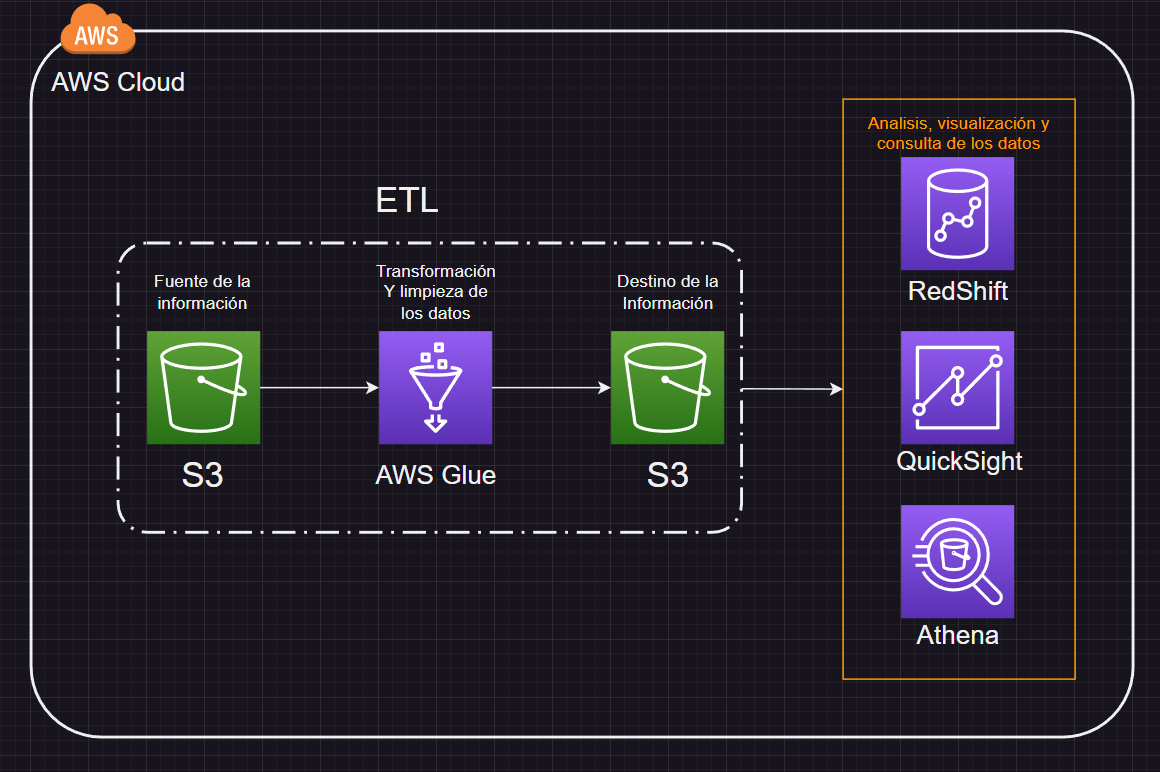
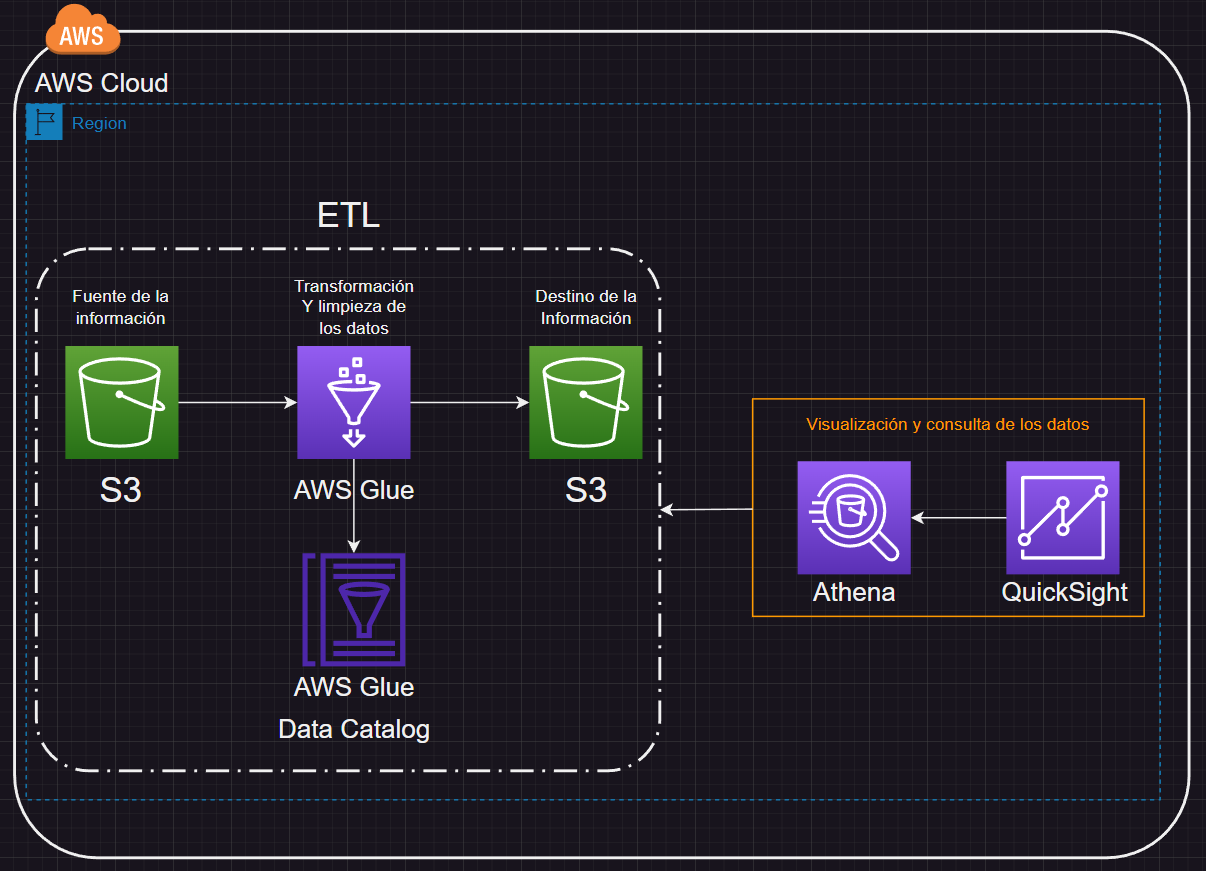
Ajustes imagenes y Readme

diff --git a/README.md b/README.md
@@ -1,6 +1,6 @@
 # Paso 1: Alcance del proyecto y captura de datos.
 
-* Identificar y recopilar los datos que usaras para tu proyecto.<br>
+1. Identificar y recopilar los datos que usaras para tu proyecto.<br>
 El [DataSet](https://www.kaggle.com/datasets/shivamb/bank-customer-segmentation) seleccionado es **Bank Customer Segmentation** contiene datos demográficos y de transacciones de clientes de un banco indio, este dataset tiene información como: 
 - Fecha de nacimiento
 - Género
@@ -10,7 +10,7 @@ El [DataSet](https://www.kaggle.com/datasets/shivamb/bank-customer-segmentation)
 - Tiempo de transacción 
 - Monto en INR
 
-* Explicar para qué casos de uso final deseas preparar los datos, por ejemplo: tabla de análisis, aplicación de fondo, base de datos de fuentes de verdad, etc.<br>
+2. Explicar para qué casos de uso final deseas preparar los datos, por ejemplo: tabla de análisis, aplicación de fondo, base de datos de fuentes de verdad, etc.<br>
 El caso de uso para el que prepararé los datos es para realizar **Análisis de comportamiento de gastos según la edad y género de los clientes**, el objetivo de este caso de uso será encontrar información valiosa sobre los patrones de gastos de diferentes grupos demográficos, esto nos puede ayudar a tomar decisiones estratégicas que podemos relacionar con la oferta de productos y servicios para los clientes.
 
 # Paso 2: Explorar y evaluar los datos, el EDA.
@@ -40,13 +40,13 @@ Todos los pasos anteriores los fui explicando en el notebook mencionado.
 	
 	![Arquitectura](./images/arquitectura.png)
 	<br>
-3. Indique claramente los motivos de la elección de las herramientas y tecnologías para el proyecto.
-	Elegí herramientas como python, google colab porque python es el lenguaje recomendado por el documento de la prueba técnica y porque es un lenguaje que manejo bastante bien, el uso de google colab es debido a que me parece una herramienta sencilla de usar y que estoy acostumbrado a ella.
+3. Indique claramente los motivos de la elección de las herramientas y tecnologías para el proyecto.<br>
+	Elegí herramientas como python, google colab porque python es el lenguaje recomendado por el documento de la prueba técnica y porque es un lenguaje que manejo bastante bien, el uso de google colab es debido a que me parece una herramienta sencilla de usar, que estoy acostumbrado a ella y me da la facilidad de tener un entorno aislado sin mucho esfuerzo.
 	<br>
-	Por otro lado respecto a las tecnologías y herramientas utilizadas para la creación y ejecución del ETL, Amazon S3 ofrece ventajas como una gran escalabilidad, economía y me permite modularidad en la arquitectura, por otro lado el uso de AWS Glue, permite que realice la transformación de los datos de forma sencilla con algunas transformaciones sencillas, pero a la vez me permite usar transformaciones a partir de SQL cosa que AWS Glue Databreaw no me permite, adicionalmente son herramientas que me permiten realizar una buena integración con otras herramientas de AWS como Athena, Redshift o QuickSight, para poder consultar, analizar y visualizar  los datos y también son herramientas con mucha documentación y videos que podrían ayudar en caso de encontrarme con algún imprevisto.
+	Por otro lado respecto a las tecnologías y herramientas utilizadas para la creación y ejecución del ETL, Amazon S3 ofrece ventajas como una gran escalabilidad, economía y me permite modularidad en la arquitectura, por otro lado el uso de AWS Glue, permite que realice la transformación de los datos de forma sencilla con algunas transformaciones sencillas, pero a la vez me permite usar transformaciones a partir de SQL que son un poco más complejas, cosa que AWS Glue Databrew no me permite, adicionalmente son herramientas que me permiten realizar una buena integración con otras herramientas de AWS como Athena para explorar un poco más los datos y QuickSight para visualizar los mismos y también son herramientas que cuentan con mucha documentación y videos que podrían ayudar en caso de encontrarme con algún imprevisto.
 
-4. Proponga con qué frecuencia deben actualizarse los datos y por qué.
-	La frecuencia de actualización de los datos depende de la disponibilidad y la actualización de los mismos, en este caso como estamos hablando de transacciones realizadas por los clientes de un banco lo más recomendable sería tener una actualización lo más cercano al tiempo real, es decir, en intervalos de pocos minutos o hasta segundos, pero en este caso como el objetivo del proyecto es el **Análisis de comportamiento de gastos según la edad y género de los clientes** no es primordial contar con la actualización de manera frecuente, en un principio se podrían realizar análisis con una muestra de los datos y posterior a ello cuando ya se tenga un análisis completamente estructurado, se pueden realizar actualizaciones periódicas.
+4. Proponga con qué frecuencia deben actualizarse los datos y por qué.<br>
+	La frecuencia de actualización de los datos depende de la disponibilidad y la actualización de los mismos, en este caso como estamos hablando de transacciones realizadas por los clientes de un banco lo más recomendable sería tener una actualización lo más cercano al tiempo real, es decir, en intervalos de pocos minutos o hasta segundos, para esto nos podríamos ayudar de los Schedules de los jobs en AWS Glue para ejecutar la transformación de los datos en los intervalos que sea necesario, pero en este caso como el objetivo del proyecto es el **Análisis de comportamiento de gastos según la edad y género de los clientes** no es primordial contar con la actualización de manera frecuente, en un principio se podrían realizar análisis con una muestra de los datos y posterior a ello cuando ya se tenga un análisis completamente estructurado, se pueden realizar actualizaciones periódicas.
 
 # Paso 4: Ejecutar la ETL
 
@@ -115,3 +115,4 @@ Finalmente llevé la data procesada a un bucket de S3, en la imagen se puede ver
 	<br>
 
 	- Si se requiere hacer analítica en tiempo real, ¿cuales componentes cambiaria a su arquitectura propuesta?<br>
+	Para este caso tendríamos que agregar schedules y usar la herramienta de workflow para realizar la ejecución del job cada pocos minutos, de forma que podamos tenenr los datos lo más actualizados posible
